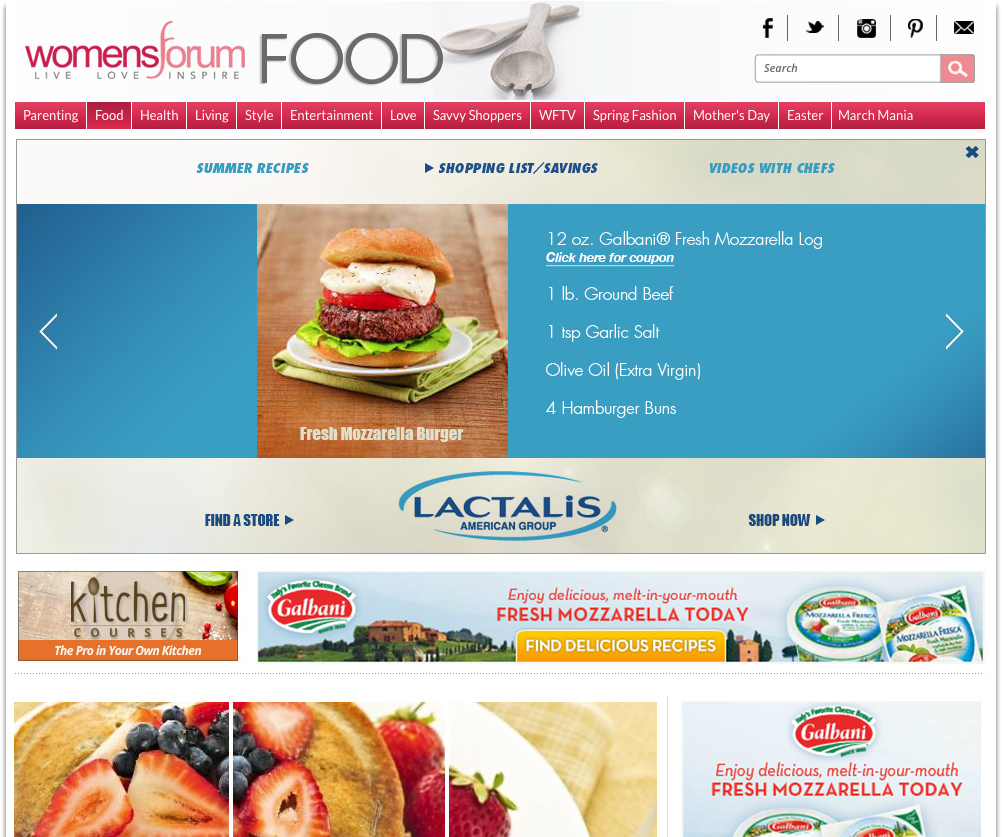
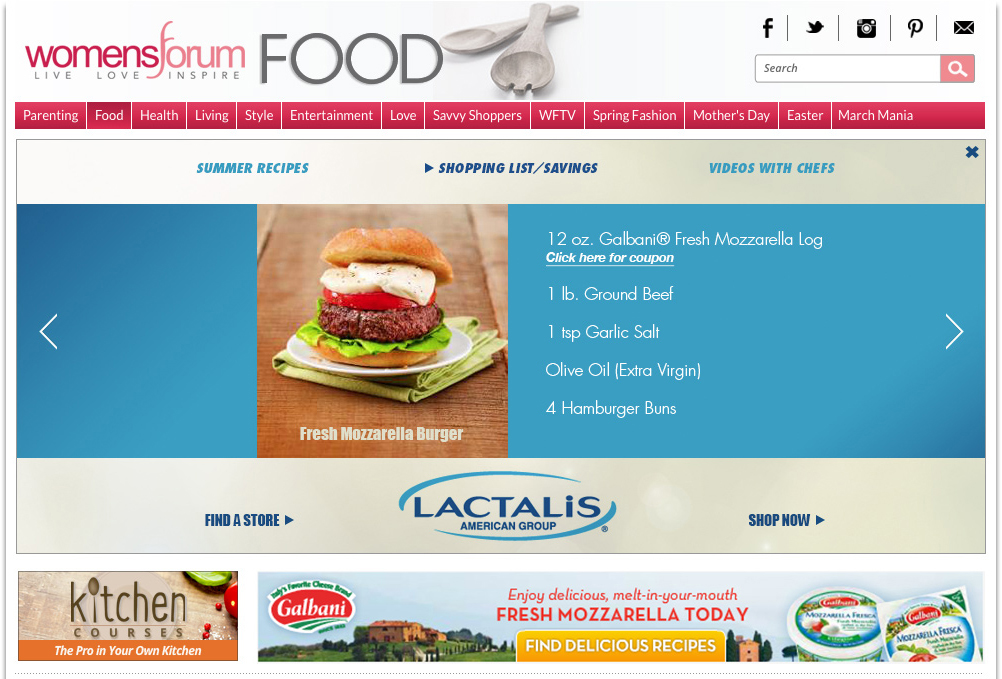
Super pushdown updates

diff --git a/public/assets/css/homepage/main.css b/public/assets/css/homepage/main.css
@@ -114,3 +114,16 @@ body {
     border-bottom-color: #ffffff;
 }
 
+.super-pushdowns {
+
+}
+
+.super-pushdowns-nav {
+    margin: 0 auto; width: 150px; margin-top: 20px;
+}
+
+.super-pushdowns h2 {
+    color: #d21748; margin: 35px;
+}
+
+

diff --git a/views/homepage/super-pushdown.php b/views/homepage/super-pushdown.php
@@ -1,13 +1,43 @@
+<?php $_REQUEST['type'] = empty($_REQUEST['type']) ? 'style' : $_REQUEST['type']; ?>
 
-<div class="row-fluid" style="text-align: center;">
+<div class="row-fluid super-pushdowns-nav">
     <ul class="nav nav-pills">
-        <li class="active"><a href="#">Style</a></li>
-        <li><a href="#">Food</a></li>
+        <li<?php echo ($_REQUEST['type'] == 'style' ? ' class="active"' : ''); ?>><a href="?do=super-pushdown&amp;type=style">Style</a></li>
+        <li<?php echo ($_REQUEST['type'] == 'food' ? ' class="active"' : ''); ?>><a href="?do=super-pushdown&amp;type=food">Food</a></li>
     </ul>
 </div>
 
 
+<?php if ($_REQUEST['type'] == 'style') : ?>
+<div class="row-fluid super-pushdowns">
+    <div class="col-lg-12 text-center">
+        <h2>Lookbook</h2>
+        <img src="/assets/imgs/homepage/super-pushdown/lookbook.png" border="0" />
+    </div>
+    <div class="col-lg-12 text-center">
+        <h2>Pop-up Shop</h2>
+        <img src="/assets/imgs/homepage/super-pushdown/pop-up-shop.png" border="0" />
+    </div>
+    <div class="col-lg-12 text-center">
+        <h2>Video</h2>
+        <img src="/assets/imgs/homepage/super-pushdown/video.png" border="0" />
+    </div>
+</div>
+<?php endif ?>
 
-
-
-
+<?php if ($_REQUEST['type'] == 'food') : ?>
+<div class="row-fluid super-pushdowns">
+    <div class="col-lg-12 text-center">
+        <h2>Recipes</h2>
+        <img src="/assets/imgs/homepage/super-pushdown/WFFood_SuperPushDown_1.jpg" border="0" />
+    </div>
+    <div class="col-lg-12 text-center">
+        <h2>Shopping List</h2>
+        <img src="/assets/imgs/homepage/super-pushdown/WFFood_SuperPushDown_2.jpg" border="0" />
+    </div>
+    <div class="col-lg-12 text-center">
+        <h2>Videos</h2>
+        <img src="/assets/imgs/homepage/super-pushdown/WFFood_SuperPushDown_3.jpg" border="0" />
+    </div>
+</div>
+<?php endif ?>
